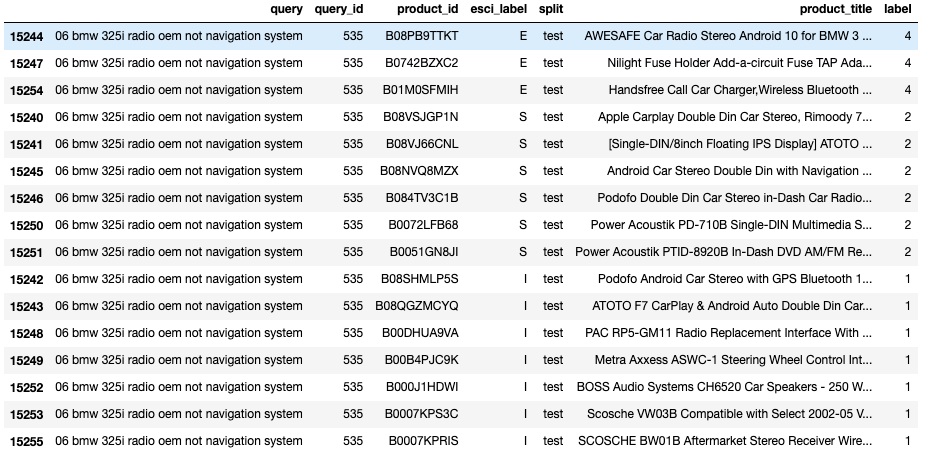
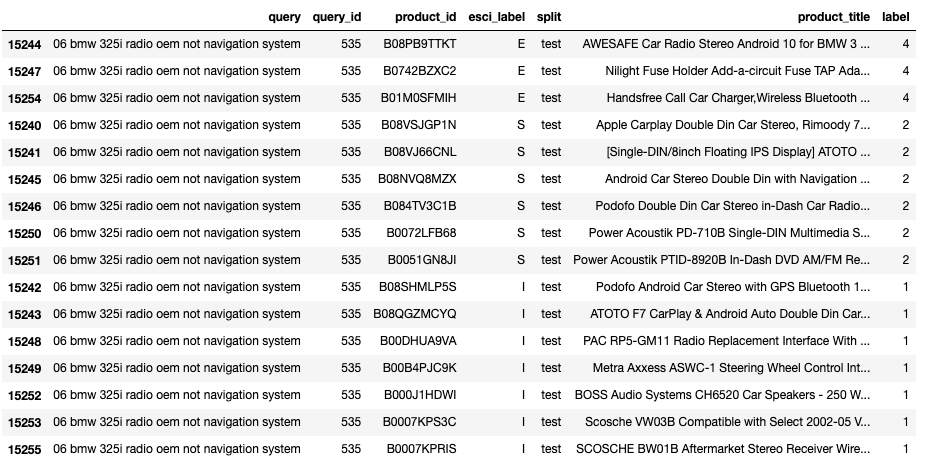
Update image, plus another round

diff --git a/_posts/2022-11-03-improving-product-search-with-ltr.md b/_posts/2022-11-03-improving-product-search-with-ltr.md
@@ -109,16 +109,17 @@ The task is to optimize the ordering (ranking) so that products labeled as exact
 before supplements and supplements before irrelevant. 
 
 ![Product ranking example](/assets/2022-11-03-improving-product-search-with-ltr/535_perfect.png)
-Perfect ordering of products for query `#535`. Note that we have converted the textual labels
-to numeric labels (E=4, S=3, C=2, I=1). If our ranking function is able to produce this ordering, we
-would get a perfect score for this particular query example. 
+The above image shows perfect ranking of products for query `#535`. 
+Note that we have converted the textual labels (esci_label) to numeric labels using 
+E=4, S=3, C=2, I=1. If our ranking function is able to produce this ordering, we
+would get a perfect score for this query. 
 
 ## Indexing the dataset with Vespa
 
 We use the following [Vespa document
 schema](https://docs.vespa.ai/en/schemas.html), which allows us to index all the
-products associated with English queries across both splits. We
-use a utility script that converts the parquet product data file to a 
+products associated with English queries across both splits. 
+We use a utility script that converts the parquet product data file to a 
 [Vespa JSON](https://docs.vespa.ai/en/reference/document-json-format.html)
 formatted feed file. In total we index about 1.2M products in Vespa. 
 
@@ -192,8 +193,9 @@ schema product {
 </pre>
 
 The product data contains title, description, brand, color and bullets. We use
-Vespa’s support for producing vector embeddings, using the title and description
-as input. See [text embedding made simple](https://blog.vespa.ai/text-embedding-made-simple/)
+Vespa’s support for encoding text into vector embeddings, in this case 
+we use the title and description as input. 
+See [text embedding made simple](https://blog.vespa.ai/text-embedding-made-simple/)
 for details on how to embed text embedding models in Vespa.
 
 
@@ -204,28 +206,27 @@ The official dataset evaluation metric is
 Discounted Cumulative Gain), a precision-oriented metric commonly used for
 ranking datasets with graded relevance judgments. An important observation is
 that the task only considers ranking of the products that have judgment
-labels. In other words, we assume that a magic perfect retriever has
-retrieved all relevant documents (plus a few irrelevant documents), and our task is to
+labels. In other words, we assume that a magic retriever has
+retrieved all relevant documents (plus irrelevant documents), and our task is to
 re-rank the products so that the relevant ones are pushed to the top of the
 ranked list of products. This is a simpler task than implementing end-to-end
 retrieval and ranking over the 1.2M products.  
-
 
 ![Ranking overview](/assets/2022-11-03-improving-product-search-with-ltr/ranking-overview.excalidraw.png)
 
 Many deployed search systems need to hedge the deployment cost and deploy
 [multi-phased retrieval and ranking](https://docs.vespa.ai/en/phased-ranking.html)
 pipelines to reduce computational complexity.
-In such a retrieval and ranking funnel, one or many diverse retrievers use a
-cost-efficient retrieval ranking phase, and subsequent ranking phases re-order
+In a retrieval and ranking funnel, one or many diverse retrievers use a
+cost-efficient retrieval ranking phase, and subsequent ranking phases re-rank
 the documents, focusing on precision. In a later post in this series, we look at
-how to train a retriever function using learning-to-retrieve and how to
-represent retrieval and ranking pipelines in Vespa. 
+how to train a retriever function using `learning to retrieve` and how to
+represent [retrieval and ranking phases](https://docs.vespa.ai/en/phased-ranking.html) in Vespa. 
 
 ## Baseline zero-shot ranking models
 
 We propose and evaluate seven different baseline ranking models, all represented end-to-end in
-Vespa using [Vespa’s ranking framework](https://docs.vespa.ai/en/ranking.html). 
+Vespa using [Vespa's ranking framework](https://docs.vespa.ai/en/ranking.html). 
 
 ### Random
 Obviously not the greatest baseline, but allows us to compare other baselines with
@@ -258,7 +259,7 @@ rank-profile bm25 inherits default {
     }
 }
 </pre>
-Note that we only use the `title` and `description`. All our lexical based baselines
+Note that we only use the `title` and `description`. All our lexical baselines
 uses only these two fields. 
 
 ### Vespa nativeRank - lexical ranking
